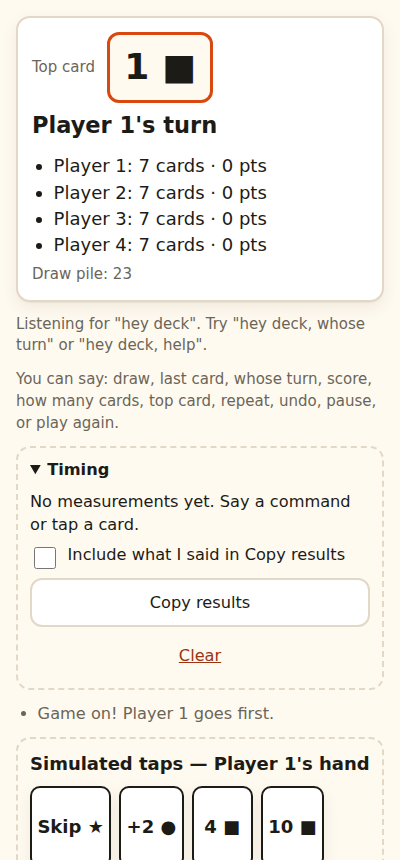
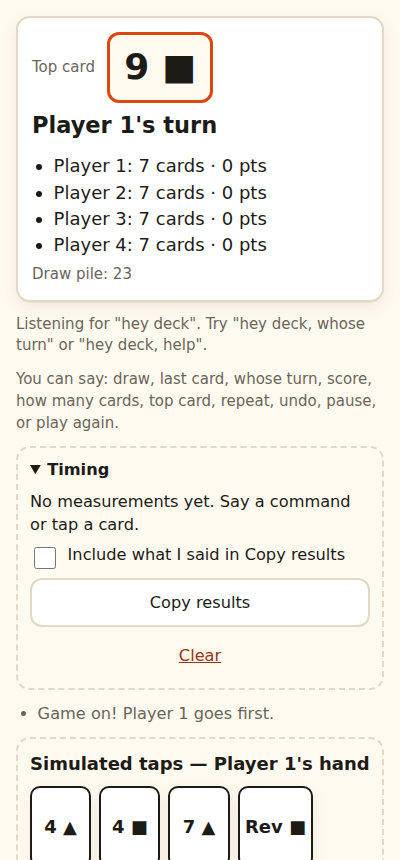
Setup: optional 'tap the cards I'm using' step to set the deck from the real cards
Claude-Session: https://claude.ai/code/session_014dNE1wrudJ3Rjp2wqt9CUz

Changed region(s): [[0.09, 0.907, 0.81, 1.0], [0.3, 0.0605, 0.39, 0.0907]]

diff --git a/src/ui/setupScreen.ts b/src/ui/setupScreen.ts
@@ -5,6 +5,7 @@ import { ALL_CARD_IDS, deckForCount, deckFromExcluded, describeDeck, excludedFro
 import type { Cartridge, Player, TableConfig } from '../engine/types';
 import { WebNfcInput } from '../input/webnfc';
 import { loadChipMap } from '../storage';
+import { resolveChip } from '../engine/deck';
 
 export interface GameStart {
   players: Player[];
@@ -44,6 +45,41 @@ export function setupScreen(game: Cartridge, onStart: (cfg: GameStart) => void, 
   let planEl: HTMLElement;
   let startBtn: HTMLButtonElement;
   let hintEl: HTMLElement | undefined;
+
+  // "Tap the cards I'm using": tap each real card once and the deck becomes exactly those cards.
+  let capture: WebNfcInput | null = null;
+  let capturing = false;
+  let tapped: string[] = [];
+  let captureMsg = '';
+  let captureEl: HTMLElement | undefined;
+  const chips = loadChipMap();
+  function paintCapture(): void {
+    if (!captureEl) return;
+    captureEl.hidden = !capturing;
+    captureEl.querySelector('#tap-status')!.textContent = captureMsg || (tapped.length ? `${tapped.length} cards tapped: ${tapped.join(', ')}` : 'Tap each card you are playing with, once.');
+    (captureEl.querySelector('#tap-use') as HTMLButtonElement).disabled = tapped.length === 0;
+  }
+  function stopCapture(): void {
+    capture?.stop();
+    capture = null;
+    capturing = false;
+    paintCapture();
+  }
+  function startCapture(): void {
+    tapped = [];
+    captureMsg = '';
+    capturing = true;
+    capture = new WebNfcInput();
+    capture.subscribe((chipId) => {
+      const card = resolveChip(chips, chipId);
+      if (!card) captureMsg = 'That tag is not registered yet. Register it under Tags first.';
+      else if (tapped.includes(card.id)) captureMsg = `${card.id} was already tapped.`;
+      else { tapped = [...tapped, card.id]; captureMsg = ''; }
+      paintCapture();
+    });
+    capture.start()?.catch((e: Error) => { captureMsg = e.message; paintCapture(); });
+    paintCapture();
+  }
   let cardBtns: HTMLButtonElement[] = [];
   function updateDeckViews(): void {
     const plan = game.planDeal(n, deck.length);
@@ -97,6 +133,17 @@ export function setupScreen(game: Cartridge, onStart: (cfg: GameStart) => void, 
         (summaryEl = h('p', { class: 'deck-summary' }, describeDeck(deck))),
         (planEl = h('p', { role: 'status', class: 'error' in plan ? 'err' : 'ok' },
           'error' in plan ? plan.error : `${n} players: deal ${plan.handSize} cards each, leaving ${plan.pile} in the draw pile.`)),
+        nfcOk && h('button', { id: 'tap-deck', onclick: () => (capturing ? stopCapture() : startCapture()) }, 'Tap the cards I\'m using'),
+        (captureEl = h('div', { class: 'deck-picker', hidden: true },
+          h('p', { id: 'tap-status', role: 'status' }, ''),
+          h('button', { id: 'tap-use', class: 'primary', onclick: () => {
+            if (!tapped.length) return;
+            deck = ALL_CARD_IDS.filter((id) => tapped.includes(id));
+            persist();
+            stopCapture();
+            updateDeckViews();
+          } }, 'Use these cards'),
+          h('button', { id: 'tap-cancel', class: 'link', onclick: stopCapture }, 'Cancel'))),
         (cardBtns = []) && h('details', { class: 'deck-picker' },
           h('summary', {}, 'Choose the exact cards (e.g. a card is missing)'),
           h('div', { class: 'deck-grid' }, SHAPES.map((shape) =>
@@ -126,15 +173,17 @@ export function setupScreen(game: Cartridge, onStart: (cfg: GameStart) => void, 
         const clean = cleanNames(Array.from({ length: n }, (_, i) => names[i] ?? ''));
         saveNames([...clean.map((c, i) => (names[i]?.trim() ? c : '')), ...names.slice(n)]);
         persist();
+        stopCapture();
         onStart({
           players: clean.map((name, i) => ({ id: `p${i}`, name })),
           realNfc: nfcOk && wantNfc(),
           table: { mode: deal === 'app' ? 'virtual' : 'physical', knowledge: deal === 'scanned' ? 'scanned' : 'counts', deck: [...deck], handSize: plan.handSize, ...(playOn && n >= 3 ? { playOn: true } : {}) },
         });
       } }, 'Start')),
-      h('button', { class: 'link', onclick: onBack }, 'Back'),
+      h('button', { class: 'link', onclick: () => { stopCapture(); onBack(); } }, 'Back'),
     );
     updateDeckViews();
+    paintCapture();
   }
   render();
 }

diff --git a/README.md b/README.md
@@ -13,6 +13,7 @@ A deck of NFC playing cards plus a companion web app. Built from the *AI Smart C
 | OpenRouter commentary + Lazybird voice (step 5) | Built to the documented APIs; **not run against the live services** |
 | Voice input: wake word + push-to-talk | Built with backoff, tolerant wake word, interrupt; tested with a fake recognizer, **not on a real mic** |
 | Voice latency tracing (Timing panel) | Built: per-stage timings, every spoken line traced separately, output latency read from the browser's audio clock. Verified against injected delays (reads back 100/400/300/50ms as 102/400/317/54). **Real numbers need one round on a phone** |
+| Setup option: tap the cards you're using to set the deck; mid-game fixes for deck size and restocking | Built and tested with a stubbed reader. **Not yet tried with real tags** |
 | Scoring: specials 20, winning +2 is drawn first; optional play-on mode (last holding cards loses, 3+ players) | Built and tested, including simulated whole games |\n| Mic closes while the app speaks (fixes audio cut-outs); draw pile empty/restock prompts for real cards | Built and tested with a fake recognizer and 10-card simulated games. **Not yet confirmed on a real phone** |
 | Setup remembers your choices: player count, "Use real NFC taps" (defaults on when the phone supports it and tags are registered), dealing, deck | Built and tested, with a "N of M cards have tags" hint. |
 | Real-card table model: count-only and scan-hands dealing, any number of cards in play | Built and tested: counts match real hands through whole simulated games (3,000+ moves, many deck sizes). **Not yet tried with real NFC cards** |
@@ -155,6 +156,9 @@ Likely fixes, picked once the numbers show the biggest stage: act on interim res
 ## Running log
 
 Newest first. Add an entry with every push.
+
+### 2026-10-05 (tap the cards you're using)
+- **Setup:** new option under *Cards in play*, **Tap the cards I'm using** (Chrome on Android with registered tags). Tap each real card once; it flags repeats and unregistered tags, and **Use these cards** makes the deck exactly those cards (remembered for next time). This is the easiest way to play with a small deck so the app's deck always matches the table. The number box and *Choose the exact cards* picker still work. Browser-tested with a stubbed NFC reader; **not yet tried with real tags**.
 
 ### 2026-10-05 (restock catch-up, deck size fix)
 - **Likely cause of "already on the pile" + "18 cards in play":** a real 10-card deck is only the cards you actually hold, but the app picks its own 10 (the lowest numbers) unless you choose them. Tapping a card the app didn't expect offered *Add to the deck*; each add grew the deck (10 -> 18), which put phantom cards in the app's draw pile, so it never noticed the pile was empty and kept the old discards, refusing cards you had shuffled back in.
